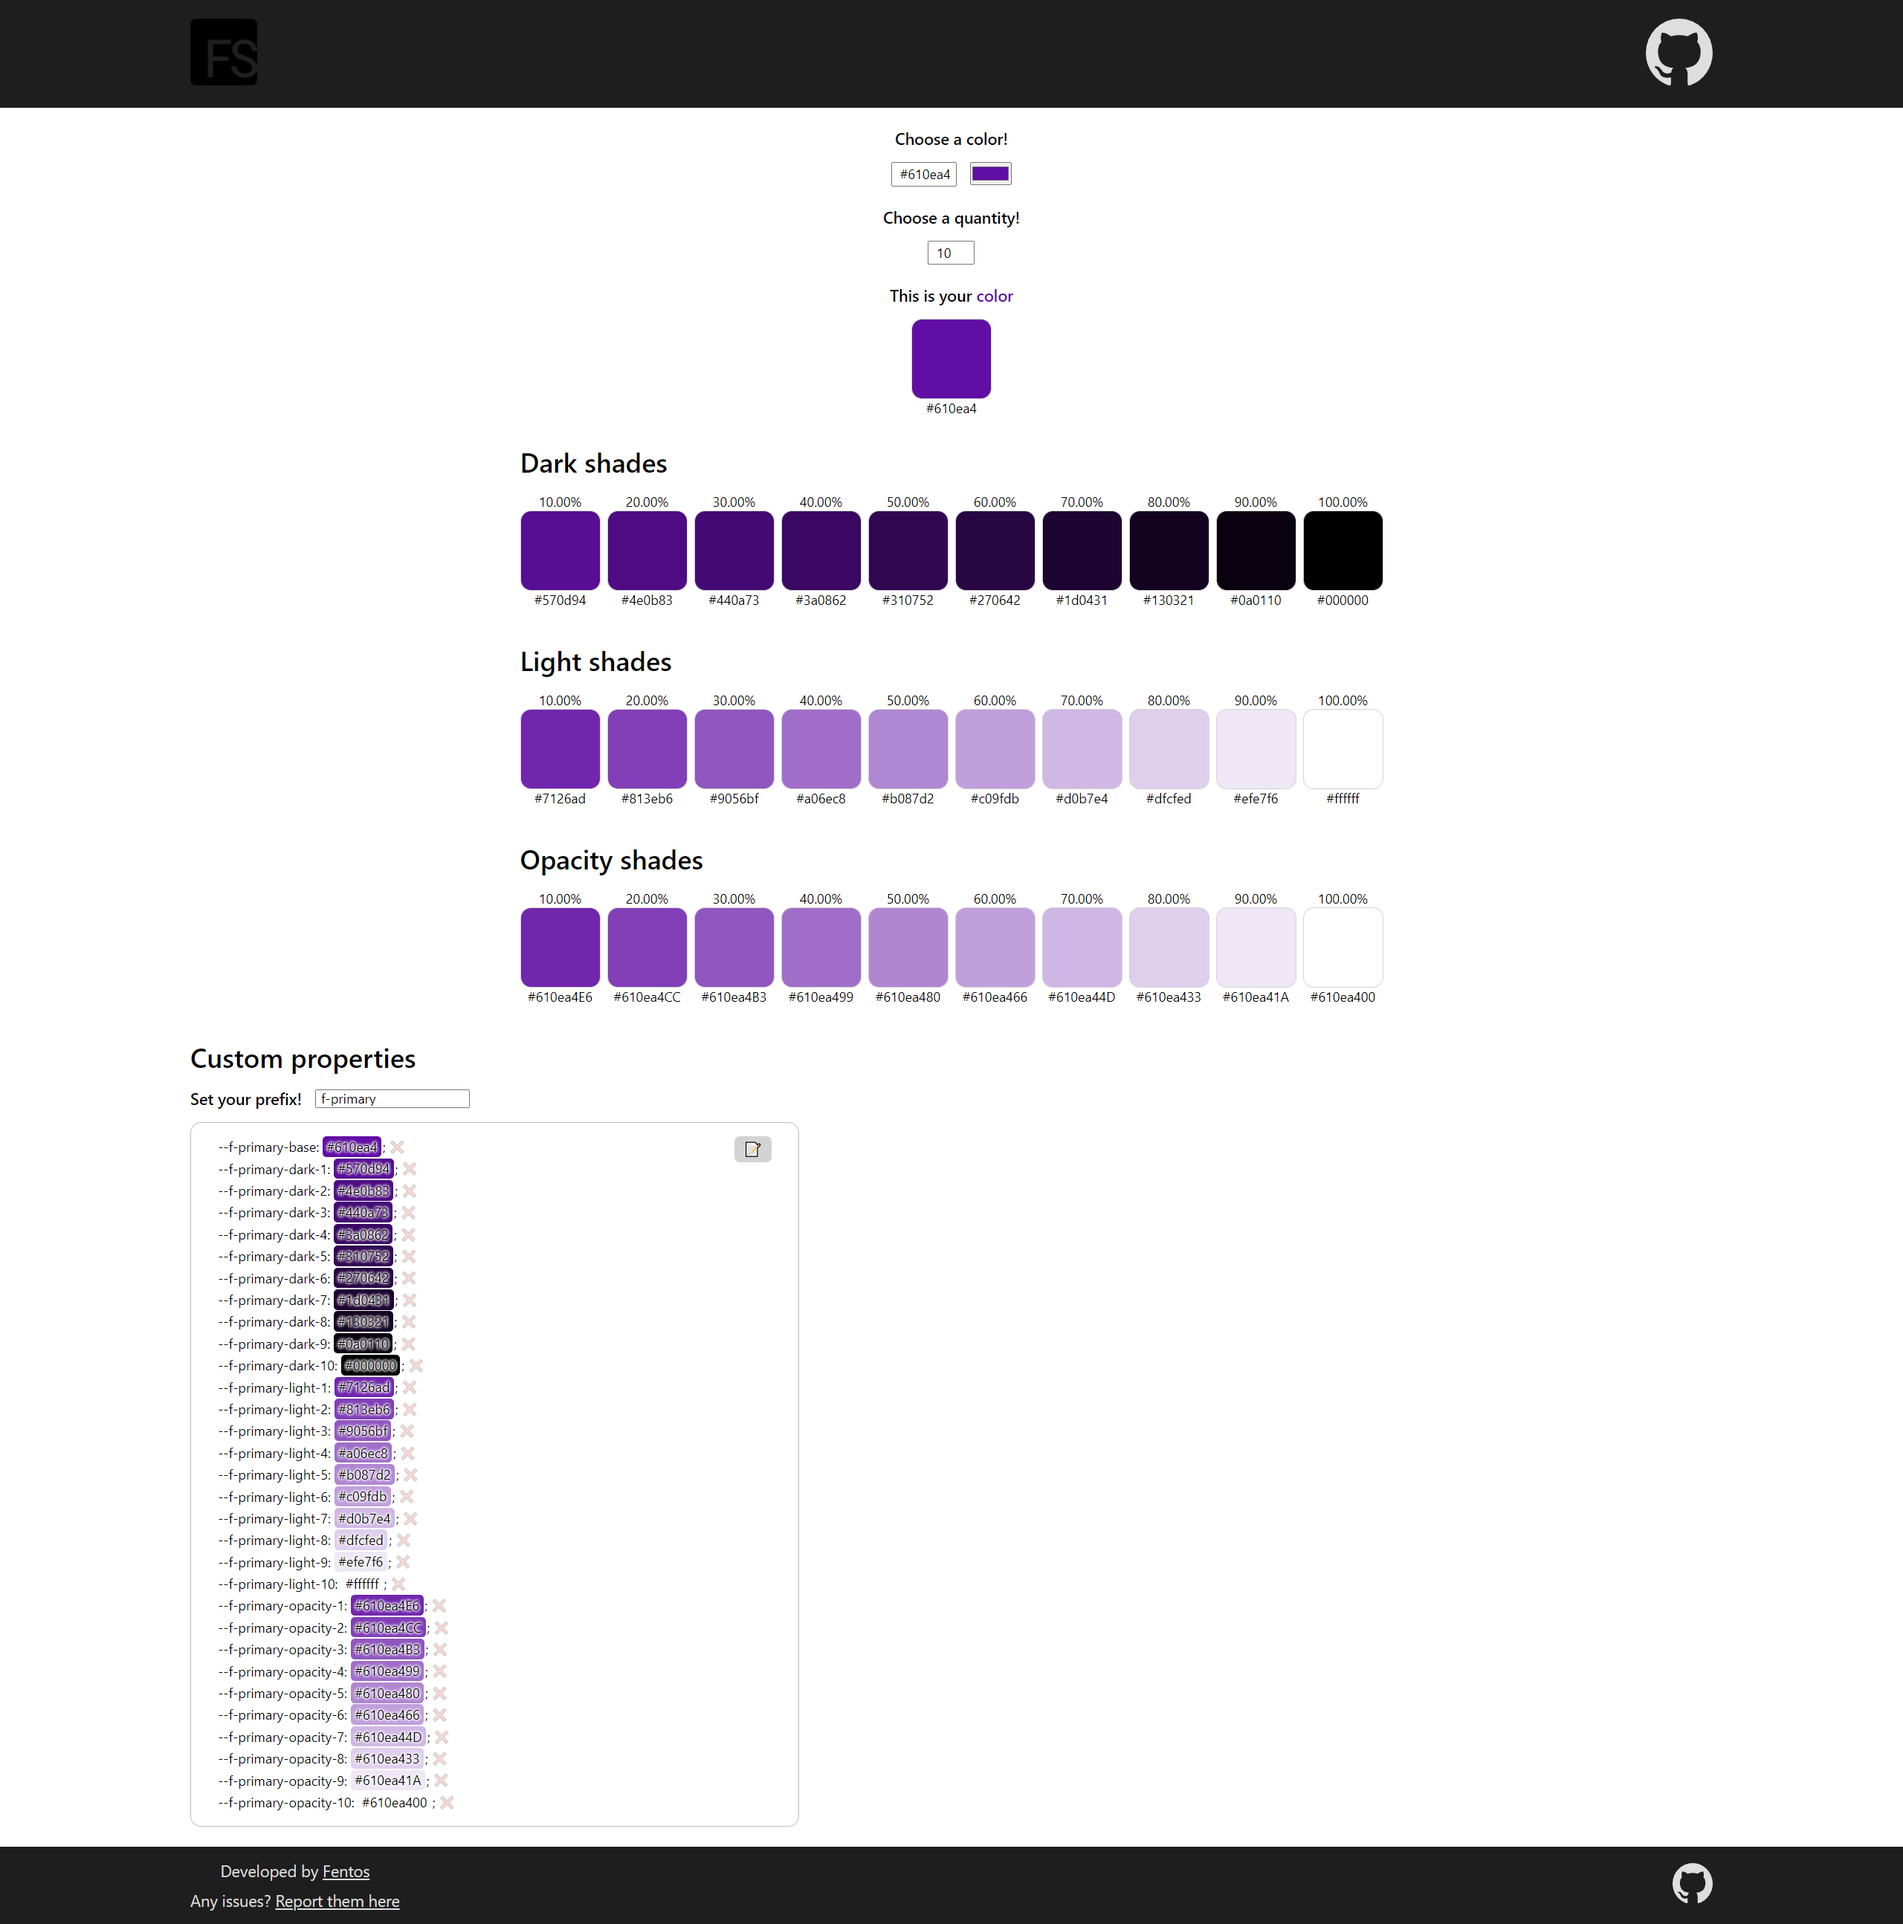
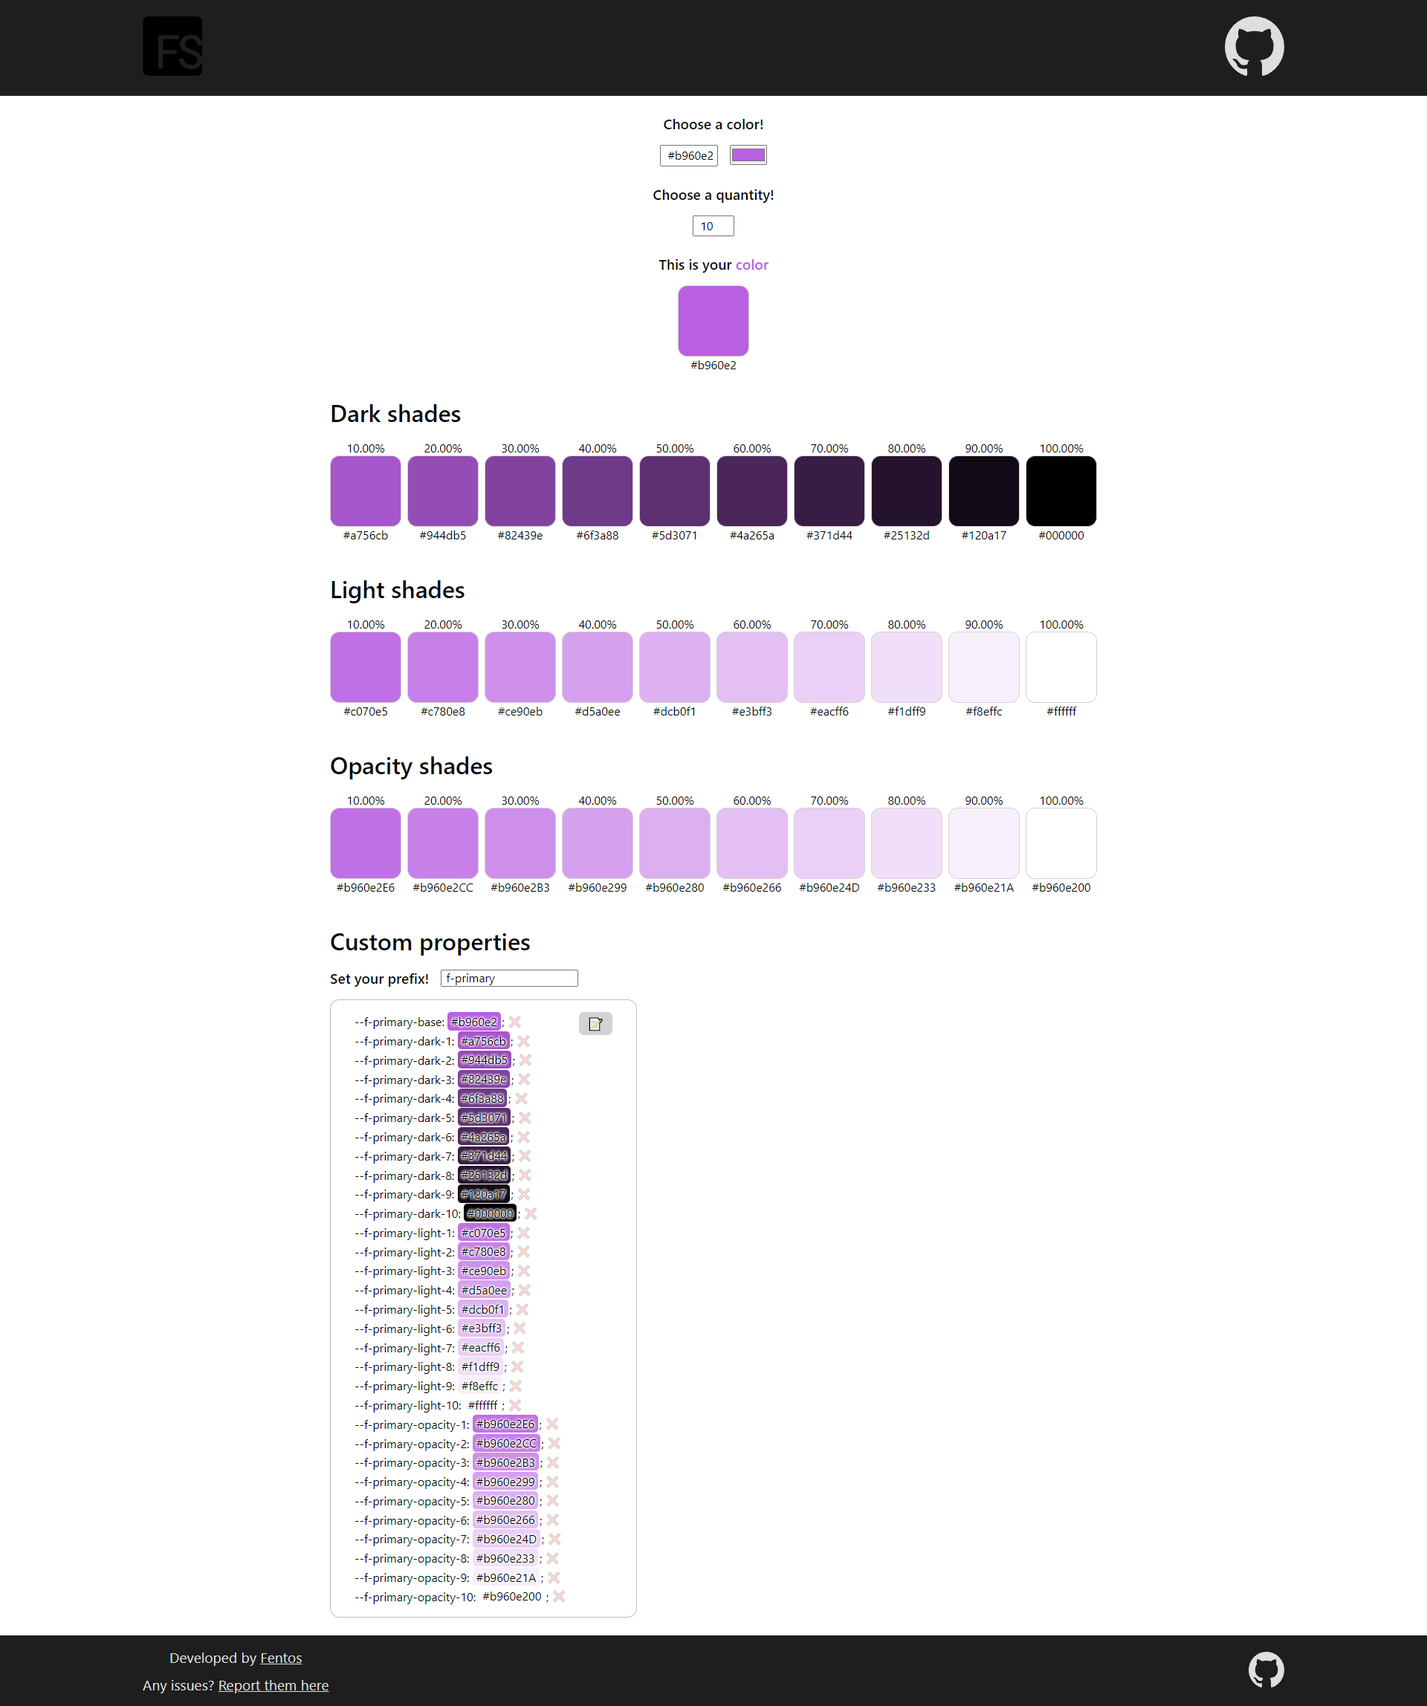
Readme updated

diff --git a/README.md b/README.md
@@ -1,14 +1,16 @@
-# <img src="public/favicon.ico" width="30px" /> Dark, light and opacity shades
+# <img src="public/favicon.ico" width="30px" /> Color shader
 
-[<img src="gh_images/screenshot_1.png" />](https://css-shades.vercel.app/)
+#### Dark, light and opacity shades
+
+[<img src="gh_images/screenshot_1.png" />](https://color-shader.vercel.app/)
 
 ### 🎨 Just select your color
 
-[<img src="gh_images/screenshot_2.png" />](https://css-shades.vercel.app/#610ea4)
+[<img src="gh_images/screenshot_2.png" />](https://color-shader.vercel.app/#b960e2)
 
 ### ⚙ Modify the prefix and the number of steps
 
-[<img src="gh_images/screenshot_3.png" />](https://css-shades.vercel.app/#610ea4)
+[<img src="gh_images/screenshot_3.png" />](https://color-shader.vercel.app/#b960e2/16)
 
 ### 📝 You can copy the color you want (just click on it!). Also, you can copy all the custom properties with your desired prefix, or delete ❌ unnecessary ones
 
@@ -16,7 +18,7 @@
 
 I just created this web cause I was calculating shades with manual methods or external generators.
 
-I needed the 3 calculations and a list of custom properties in order to save some time creating colors palettes.
+I needed this 3 calculations and a list of custom properties in order to save some time creating colors palettes.
 
 ## Credits
 
